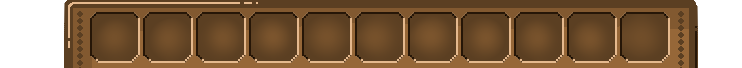
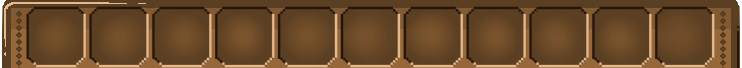
Adjusted test canvas

diff --git a/src/analoghorror/HorrorGame.java b/src/analoghorror/HorrorGame.java
@@ -4,7 +4,6 @@ import edu.macalester.graphics.*;
 import edu.macalester.graphics.events.*;
 
 import java.io.File;
-import java.util.ArrayList;
 import java.util.Arrays;
 
 import analoghorror.item.*;
@@ -35,7 +34,7 @@ public class HorrorGame {
     Item box;
     Collectable key;
     Item door;
-    Collectable doorBell;
+    Collectable card;
     Item sonic;
     // *****
 
@@ -55,7 +54,7 @@ public class HorrorGame {
          * TODO: Handle differently using Inventory/UI class 
          */
         inventory = new Inventory(0, 0, CANVAS_WIDTH, CANVAS_HEIGHT);
-        inventory.setCenter(CANVAS_WIDTH / 2, CANVAS_HEIGHT / 8 * 7);
+        inventory.setCenter(CANVAS_WIDTH / 2, CANVAS_HEIGHT - inventory.getHeight() / 2);
         background = new Image("assets" + File.separator + "hall.png");
         canvas.add(background);
         uiTexture = new Image("assets" + File.separator + "testBar.png");
@@ -73,30 +72,30 @@ public class HorrorGame {
         /**
          * Item/Collectable constructor example.
          */
-        box = new Item(300, 100, "assets" + File.separator + "chestClosed.png", false, 2);
+        box = new Item(255, 286, "assets" + File.separator + "chestClosed.png", false, 2);
         box.setStatePaths(Arrays.asList("assets" + File.separator + "chestClosed.png", "assets" + File.separator + "chestOpen.png"));
         game.add(box);  // Add to "Room" (GraphicsGroup for now)
 
-        key = new Collectable(200, 180, "assets" + File.separator + "brassKey.png", "key01");
-        key.setInventorySlot(inventory, 164);
+        key = new Collectable(60, 205, "assets" + File.separator + "silverKey.png", "key01");
+        key.setInventorySlot(inventory, 111);
         game.add(key);
         box.addValidInitCollectable(key);  // Add the Collectable to the internal validCollectable Sets for the Item
 
-        door = new Item(400, 200, "assets" + File.separator + "doorClosed.png", false, 2);
+        door = new Item(385, 120, "assets" + File.separator + "doorClosed.png", false, 2);
         door.setStatePaths(Arrays.asList("assets" + File.separator + "doorClosed.png", "assets" + File.separator + "doorOpen.png"));
         game.add(door);
 
-        sonic = new Item(70, 70, "assets" + File.separator + "sonicForward.png", true, 4);
+        sonic = new Item(778, 70, "assets" + File.separator + "sonicForward.png", true, 4);
         sonic.setStatePaths(Arrays.asList("assets" + File.separator + "sonicForward.png", "assets" + File.separator + "sonicDown.png",
         "assets" + File.separator + "sonicBack.png", "assets" + File.separator + "sonicUp.png"));
         game.add(sonic);
         sonic.addValidInitCollectable(hand);
         sonic.addValidSubCollectable(hand);
 
-        doorBell = new Collectable(600, 40, "assets" + File.separator + "studentCard.png", "doorbell01");
-        doorBell.setInventorySlot(inventory, 221);
-        game.add(doorBell);
-        door.addValidInitCollectable(doorBell);
+        card = new Collectable(528, 325, "assets" + File.separator + "studentCard.png", "card01");
+        card.setInventorySlot(inventory, 174);
+        game.add(card);
+        door.addValidInitCollectable(card);
         
         door.addValidInitCollectable(key);
 
@@ -150,9 +149,9 @@ public class HorrorGame {
                 } else if (collectable != hand) {
                     // Reset the cursor if there isn't an item under it and it isn't the hand
                     collectable.resetCursorIfOverRoom(event, game, cursor, activeCursor, inventory);
-                    // TODO: Improve w/ Inventory class
                 }
             }
+            System.out.println(event.getPosition());
         });
     }
 

diff --git a/src/analoghorror/Inventory.java b/src/analoghorror/Inventory.java
@@ -37,7 +37,7 @@ public class Inventory extends GraphicsGroup{
 
     /*Basic gist for adding 10 (i think) inventory boxes*/
     private void generator(double canvasWidth, double canvasHeight){
-        Rectangle inventoryBar = new Rectangle(0, 0, canvasWidth / 8 * 7, canvasHeight / 7);
+        Rectangle inventoryBar = new Rectangle(0, 0, 742, 68);
         inventoryBar.setStroked(false);
         inventoryBar.setFilled(false);
         add(inventoryBar);
